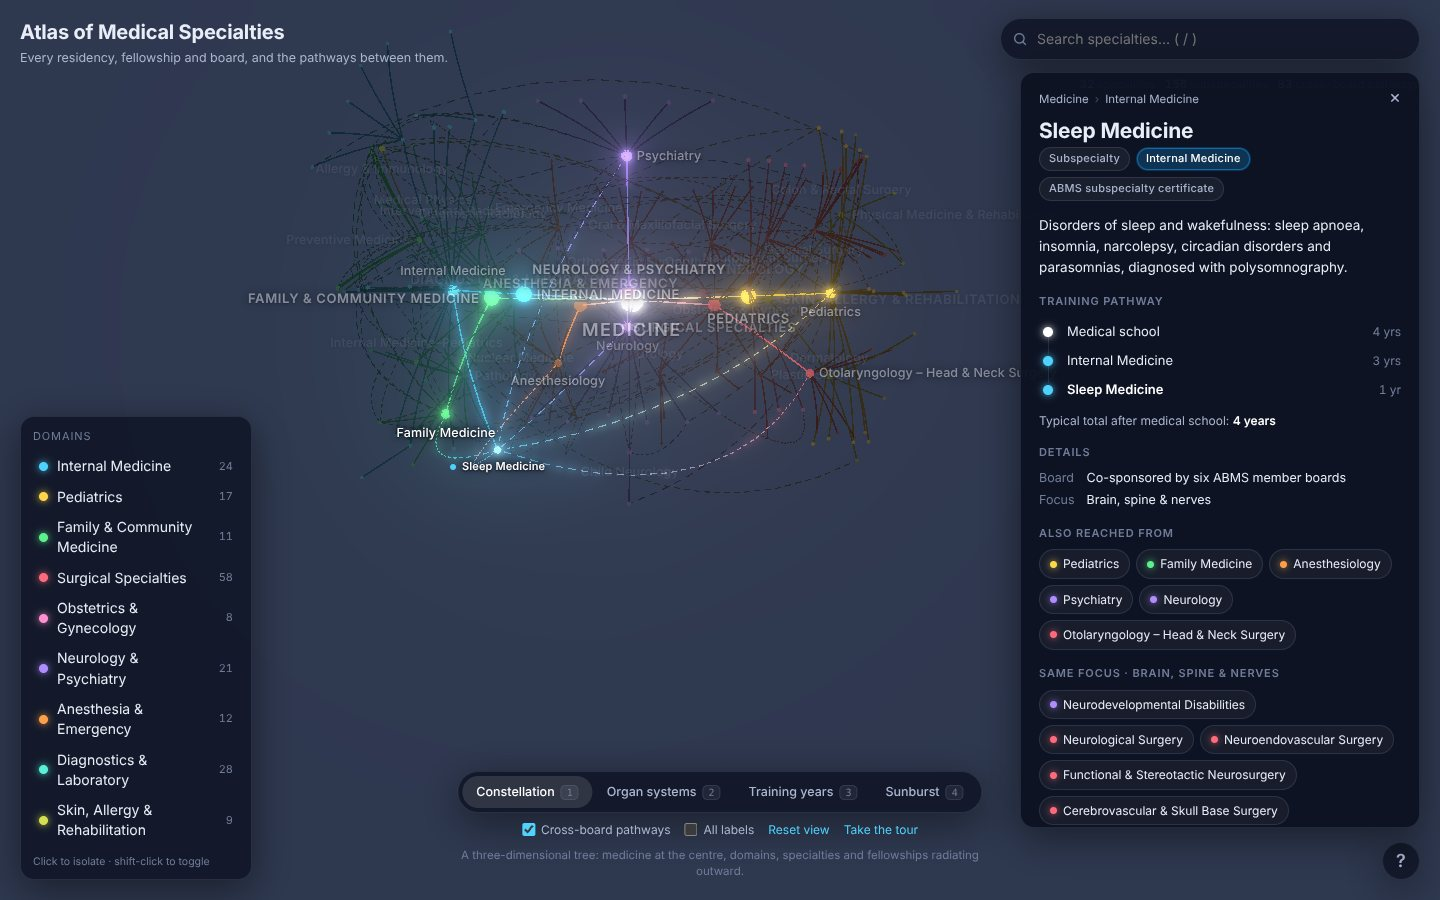
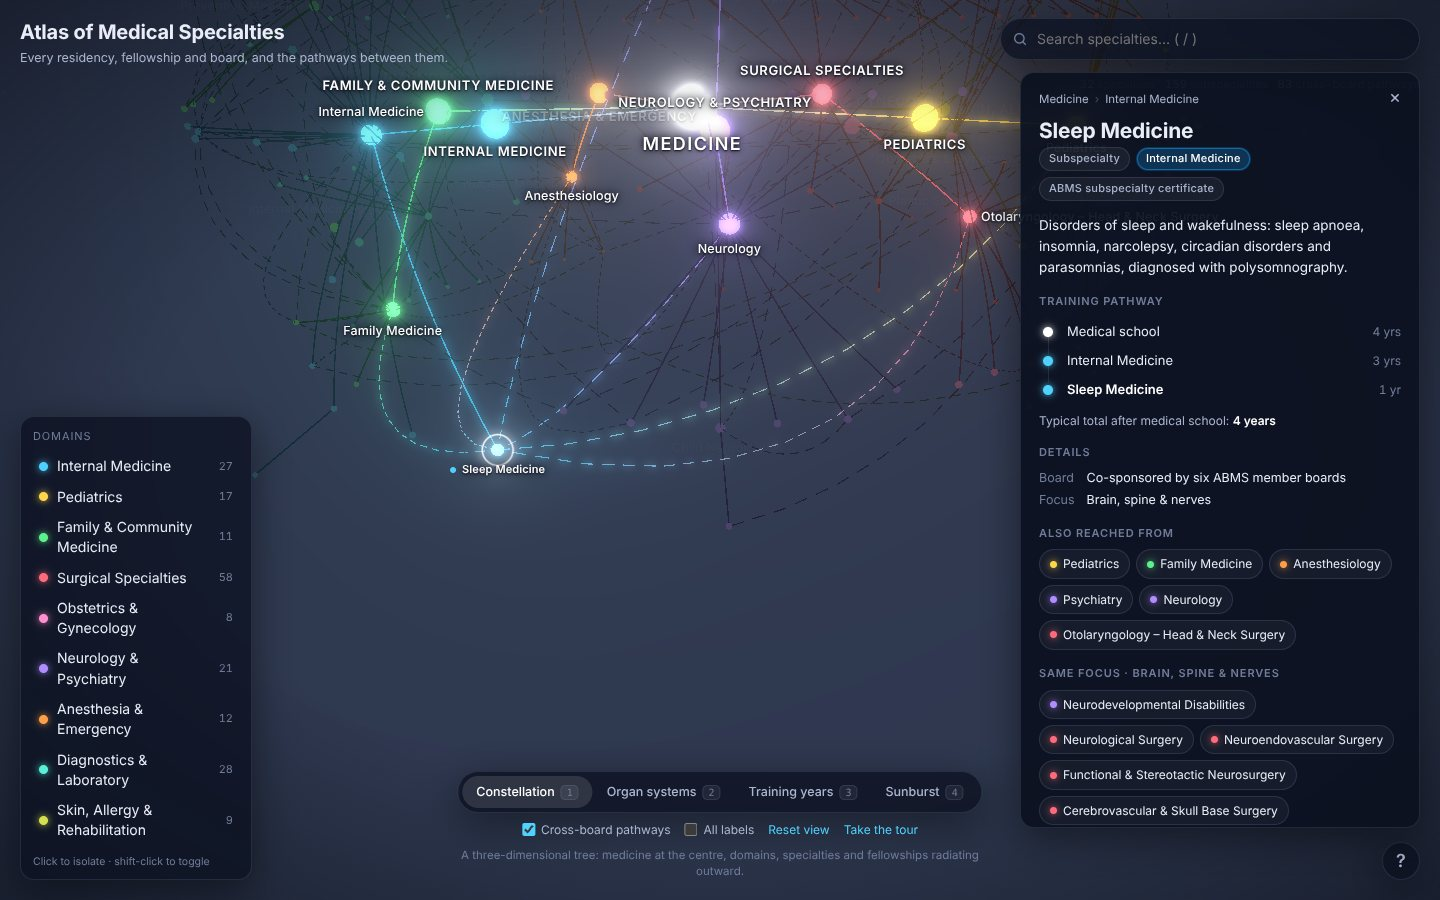
Add layout deep links, focus styles and three fellowships
Encode the active layout in the URL hash alongside the selected node, add
visible keyboard focus styles, add transplant and interventional nephrology
and cardio-oncology, and refresh the documentation screenshots.

Claude-Session: https://claude.ai/code/session_01A1x2XuJyDj8eVj81vpSifC

diff --git a/medical-specialties/src/main.ts b/medical-specialties/src/main.ts
@@ -2,6 +2,7 @@ import './style.css';
 import { buildGraph } from './data/graph';
 import { SceneApp } from './scene/app';
 import { Store } from './state';
+import { LAYOUTS, type LayoutId } from './graph/layouts';
 import { setupHelp } from './ui/help';
 import { setupHud } from './ui/hud';
 import { setupKeyboard } from './ui/keyboard';
@@ -44,17 +45,38 @@ store.on('select', (s) => {
   announce.textContent = n ? `${n.name}. ${n.description}` : 'Selection cleared.';
 });
 
-// Deep links: #/<node-id> selects a node on load and keeps the hash in sync.
-const applyHash = () => {
-  const id = decodeURIComponent(location.hash.replace(/^#\/?/, ''));
+// Deep links: #/<node-id>?layout=<id> selects a node and layout on load and
+// keeps the hash in sync afterwards.
+const LAYOUT_IDS = new Set(LAYOUTS.map((l) => l.id));
+const readHash = () => {
+  const raw = location.hash.replace(/^#\/?/, '');
+  const [idPart, query = ''] = raw.split('?');
+  const params = new URLSearchParams(query);
+  const layout = params.get('layout');
+  return { id: decodeURIComponent(idPart ?? ''), layout: layout && LAYOUT_IDS.has(layout as LayoutId) ? (layout as LayoutId) : null };
+};
+const writeHash = () => {
+  const { selected, layout } = store.state;
+  const parts: string[] = [];
+  if (selected) parts.push(selected);
+  const query = layout === 'constellation' ? '' : `?layout=${layout}`;
+  const next = parts.length || query ? `#/${parts.join('')}${query}` : '';
+  if (location.hash !== next) history.replaceState(null, '', next || location.pathname + location.search);
+};
+const apply = ({ id, layout }: ReturnType<typeof readHash>) => {
+  if (layout) store.setLayout(layout);
   if (id && graph.byId.has(id)) store.select(id);
 };
-store.on('select', (s) => {
-  const next = s.selected ? `#/${s.selected}` : '';
-  if (location.hash !== next) history.replaceState(null, '', next || location.pathname + location.search);
-});
-window.addEventListener('hashchange', applyHash);
-window.setTimeout(applyHash, reducedMotion ? 0 : 1800);
+// Read the initial hash once: the layout applies immediately, the selection
+// after the intro, and only then does the hash start tracking state.
+const initial = readHash();
+if (initial.layout) store.setLayout(initial.layout);
+window.setTimeout(() => {
+  apply(initial);
+  store.on('select', writeHash);
+  store.on('layout', writeHash);
+  window.addEventListener('hashchange', () => apply(readHash()));
+}, reducedMotion ? 0 : 1800);
 
 // Expose for debugging and tests in the console.
 declare global {

diff --git a/medical-specialties/src/data/nodes/internal.ts b/medical-specialties/src/data/nodes/internal.ts
@@ -292,6 +292,42 @@ export const INTERNAL_MEDICINE: SpecialtyInput[] = [
       'Kidney disease, dialysis, kidney transplantation, hypertension and the physiology of fluids, electrolytes and acid–base balance.',
   },
   {
+    id: 'transplant-nephrology',
+    name: 'Transplant Nephrology',
+    level: 'subspecialty',
+    domain: 'internal',
+    parents: ['nephrology'],
+    certification: 'fellowship',
+    years: 1,
+    system: 'renal',
+    description:
+      'Selection, immunosuppression and long-term care of kidney transplant recipients and living donors.',
+  },
+  {
+    id: 'interventional-nephrology',
+    name: 'Interventional Nephrology',
+    level: 'subspecialty',
+    domain: 'internal',
+    parents: ['nephrology'],
+    certification: 'fellowship',
+    years: 1,
+    system: 'renal',
+    description:
+      'Procedures that keep dialysis possible: placement and maintenance of dialysis access, catheter insertion and kidney biopsy under ultrasound.',
+  },
+  {
+    id: 'cardio-oncology',
+    name: 'Cardio-Oncology',
+    level: 'subspecialty',
+    domain: 'internal',
+    parents: ['cardiovascular-disease'],
+    certification: 'fellowship',
+    years: 1,
+    system: 'cardiovascular',
+    description:
+      'Protecting the hearts of cancer patients: cardiotoxicity of chemotherapy and radiation, and cardiovascular care before, during and after cancer treatment.',
+  },
+  {
     id: 'pulmonary-disease',
     name: 'Pulmonary Disease',
     short: 'Pulm',

diff --git a/medical-specialties/src/style.css b/medical-specialties/src/style.css
@@ -975,6 +975,14 @@ kbd {
   display: none !important;
 }
 
+:focus-visible {
+  outline: 2px solid var(--accent);
+  outline-offset: 2px;
+}
+#search-input:focus-visible {
+  outline: none;
+}
+
 /* ---------- responsive ---------- */
 @media (max-width: 860px) {
   #header {

diff --git a/medical-specialties/README.md b/medical-specialties/README.md
@@ -9,9 +9,9 @@ TypeScript and Vite.
 
 ## What it shows
 
-The atlas is a graph of **197 nodes**: Medicine at the centre, nine broad
+The atlas is a graph of **200 nodes**: Medicine at the centre, nine broad
 domains, 32 specialties with their own residency and primary board certificate,
-and 156 subspecialties reached by fellowship. Subspecialties that can be entered
+and 159 subspecialties reached by fellowship. Subspecialties that can be entered
 from more than one specialty (Sleep Medicine, Hospice & Palliative Medicine,
 Pain Medicine, Critical Care, Hand Surgery…) are drawn once, under their home
 board, with dashed **cross-board pathways** to every other board that certifies
